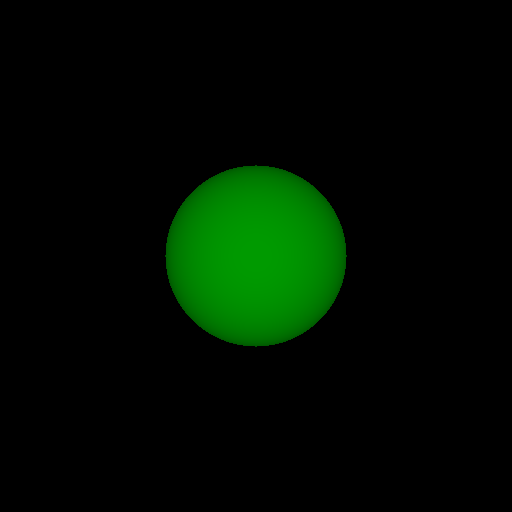
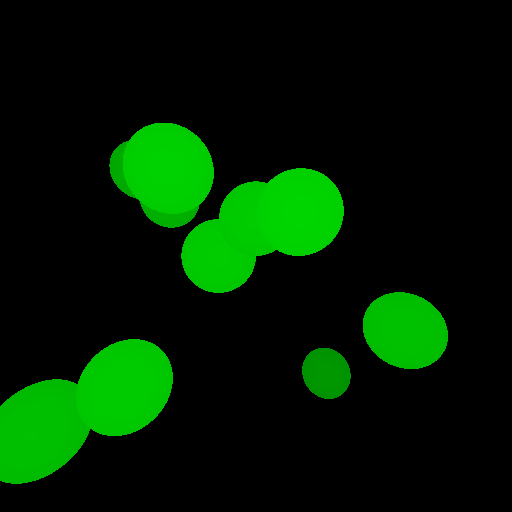
Bit of recatoring, added random generator of multiple spheres, added Matrix struct

diff --git a/src/matrix.rs b/src/matrix.rs
@@ -1,0 +1,166 @@
+
+
+const SIZE: usize = 4;
+const BUFFER_SIZE: usize = SIZE * SIZE;
+const IDENTITY: Matrix = Matrix {
+    contents: [
+        1.0, 0.0, 0.0, 0.0,
+        0.0, 1.0, 0.0, 0.0,
+        0.0, 0.0, 1.0, 0.0,
+        0.0, 0.0, 0.0, 1.0
+    ]
+};
+
+
+
+#[derive(Debug, Copy, Clone, PartialEq)]
+pub struct Matrix {
+    contents: [f32; BUFFER_SIZE]
+}
+
+impl Matrix {
+
+    pub fn new() -> Self {
+        Matrix {
+            contents: [0.0; BUFFER_SIZE]
+        }
+    }
+
+    pub fn identity() -> Self {
+        IDENTITY.clone()
+    }
+
+    pub fn index_for(&self, row: usize, col: usize) -> usize {
+        row + col * SIZE
+    }
+
+    pub fn get(&self, row: usize, col: usize) -> f32 {
+        self.contents[self.index_for(row, col)]
+    }
+
+    pub fn get_mut(&mut self, row: usize, col: usize) -> &mut f32 {
+        &mut self.contents[self.index_for(row, col)]
+    }
+
+    pub fn set(&mut self, row: usize, col: usize, val: f32) {
+        self.contents[self.index_for(row, col)] = val;
+    }
+
+    pub fn invert(&mut self) {
+        unimplemented!();
+    }
+
+    pub fn inverse(&self) -> Matrix {
+        let mut result = self.clone();
+        result.invert();
+        return result;
+    }
+
+    pub fn transpose(&mut self) {
+        for r in 0..SIZE {
+            for c in 0..r {
+                let temp = self.get(r, c);
+                self.set(r, c, self.get(c, r));
+                self.set(c, r, temp);
+            }
+        }
+    }
+
+    pub fn transposition(&self) -> Matrix {
+        let mut result = self.clone();
+        result.transpose();
+        return result;
+    }
+}
+
+// standard traits
+impl std::ops::Add for &Matrix {
+    type Output = Matrix;
+
+    fn add(self, other: Self) -> Self::Output {
+        let mut result = Self::Output::new();
+
+        for i in 0..BUFFER_SIZE {
+            result.contents[i] = self.contents[i] + other.contents[i];
+        }
+
+        return result;
+    }
+}
+impl std::ops::Sub for &Matrix {
+    type Output = Matrix;
+
+    fn sub(self, other: Self) -> Self::Output {
+        let mut result = Self::Output::new();
+
+        for i in 0..BUFFER_SIZE {
+            result.contents[i] = self.contents[i] - other.contents[i];
+        }
+
+        return result;
+    }
+}
+impl std::ops::Mul for &Matrix {
+    type Output = Matrix;
+
+    fn mul(self, other: Self) -> Self::Output {
+        let mut result = Self::Output::new();
+
+        for r in 0..SIZE {
+            for c in 0..SIZE {
+                let mut val = 0.0;
+
+                for n in 0..SIZE {
+                    val += self.get(r, n) * other.get(n, c);
+                }
+
+                result.set(r, c, val);
+            }
+        }
+
+        return result;
+    }
+}
+impl std::ops::Mul<f32> for &Matrix {
+    type Output = Matrix;
+    
+    fn mul(self, scale: f32) -> Self::Output {
+        let mut result = Self::Output::new();
+
+        for i in 0..BUFFER_SIZE {
+            result.contents[i] = self.contents[i] * scale;
+        }
+
+        return result;
+    }
+}
+
+#[test]
+fn test_mul() {
+    let mat_1 = Matrix {
+        contents: [
+            5.0, 2.0, 8.0, 3.0,
+            7.0, 3.0, 10.0, 3.0,
+            9.0, 3.0, 2.0, 4.0,
+            10.0, 8.0, 3.0, 8.0
+        ]
+    };
+
+    let mat_2 = Matrix {
+        contents: [
+            3.0, 12.0, 9.0, 3.0,
+            10.0, 1.0, 10.0, 12.0,
+            12.0, 4.0, 12.0, 4.0,
+            18.0, 9.0, 2.0, 10.0
+        ]
+    };
+
+    assert_eq!(&mat_1 * &mat_2, Matrix {
+        contents: [
+            210.0, 93.0, 171.0, 105.0,
+            267.0, 149.0, 146.0, 169.0,
+            236.0, 104.0, 172.0, 128.0,
+            271.0, 149.0, 268.0, 169.0
+        ]
+    });
+}

diff --git a/src/sphere.rs b/src/sphere.rs
@@ -36,7 +36,7 @@ impl Sphere {
 
 impl Object for Sphere {
 
-    fn intersects(&self, ray: &Ray) -> Option<f32> {
+    fn intersection(&self, ray: &Ray) -> Option<f32> {
         
         // analytic solution
         let L: Vec3 = &ray.origin - &self.position;
@@ -63,29 +63,6 @@ impl Object for Sphere {
             },
             None => None
         };
-
-
-        /*
-        float t0, t1; // solutions for t if the ray intersects
-
-        // analytic solution
-        Vec3f L = orig - center;
-        float a = dir.dotProduct(dir);
-        float b = 2 * dir.dotProduct(L);
-        float c = L.dotProduct(L) - radius2;
-        if (!solveQuadratic(a, b, c, t0, t1)) return false;
-
-        if (t0 > t1) std::swap(t0, t1);
-
-        if (t0 < 0) {
-        t0 = t1; // if t0 is negative, let's use t1 instead
-        if (t0 < 0) return false; // both t0 and t1 are negative
-        }
-
-        t = t0;
-
-        return true; 
-        */
     }
 }
 
@@ -97,7 +74,7 @@ fn solve_quadratic(a: f32, b: f32, c: f32) -> Option<(f32,f32)> {
 
     if discr < 0.0 {
         return None;
-    } else if discr.abs() < 0.0001 { // discr == 0.0
+    } else if discr == 0.0 {//discr.abs() < 0.0001 {
         t0 = -0.5 * b / a;
         t1 = t0;
     } else {
@@ -117,21 +94,4 @@ fn solve_quadratic(a: f32, b: f32, c: f32) -> Option<(f32,f32)> {
     }
 
     return Some((t0, t1));
-
-
-    /*
-    float discr = b * b - 4 * a * c;
-    if (discr < 0) return false;
-    else if (discr == 0) x0 = x1 = - 0.5 * b / a;
-    else {
-    float q = (b > 0) ?
-    -0.5 * (b + sqrt(discr)) :
-    -0.5 * (b - sqrt(discr));
-    x0 = q / a;
-    x1 = c / q;
-    }
-    if (x0 > x1) std::swap(x0, x1);
-
-    return true; 
-    */
 }

diff --git a/src/main.rs b/src/main.rs
@@ -1,7 +1,10 @@
+
+extern crate rand;
 extern crate image;
 use image::{ImageBuffer, Rgb};
 
 mod vec3;
+mod matrix;
 mod ray;
 mod object;
 mod sphere;
@@ -69,35 +72,35 @@ impl Frame {
 }
 
 
-
-
-
 fn ray_trace() -> Frame {
     
     println!("Tracing scene...");
     
     let mut ray_frame = Frame::new(RESOLUTION,RESOLUTION);
-    let objs: Vec<Box<dyn Object>> = vec![ Box::new(Sphere {
-        position: Vec3 {
-            x: 0.0,
-            y: 0.0,
-            z: -3.0
-        },
-        radius: 1.0
-    }) ];
+    let mut objs: Vec<Box<dyn Object>> = Vec::new();
+    for _ in 0..10 {
+        objs.push(Box::new(Sphere {
+            position: Vec3 {
+                x: (rand::random::<u8>() % 10) as f32 - 5.0,
+                y: (rand::random::<u8>() % 10) as f32 - 5.0,
+                z: (rand::random::<u8>() % 10) as f32 - 15.0,
+            },
+            radius: 1.0
+        }))
+    }
 
     for x in 0..RESOLUTION {
         for y in 0..RESOLUTION {
             let ray = ray_frame.pixel_to_ray(&(x, y));
 
             for obj in &objs {
-                match obj.intersects(&ray) {
+                match obj.intersection(&ray) {
                     Some(distance) => {
                         if x == 0 && y == 0 {
                             println!("{:?}", distance);
                         }
 
-                        ray_frame.buffer[x as usize][y as usize] = Color(0, (255.0 - (distance * 100.0)) as u8, 0)
+                        ray_frame.buffer[x as usize][y as usize] = Color(0, (255.0 - (distance * 10.0)) as u8, 0)
                     },
                     _ => ()
                 }

diff --git a/src/vec3.rs b/src/vec3.rs
@@ -42,7 +42,7 @@ impl std::ops::Add for &Vec3 {
     type Output = Vec3;
 
     fn add(self, other: Self) -> Self::Output {
-        Vec3 {
+         Self::Output {
             x: self.x + other.x,
             y: self.y + other.y,
             z: self.z + other.z

diff --git a/src/object.rs b/src/object.rs
@@ -2,5 +2,5 @@
 use crate::ray::Ray;
 
 pub trait Object {
-    fn intersects(&self, ray: &Ray) -> Option<f32>;
+    fn intersection(&self, ray: &Ray) -> Option<f32>;
 }
